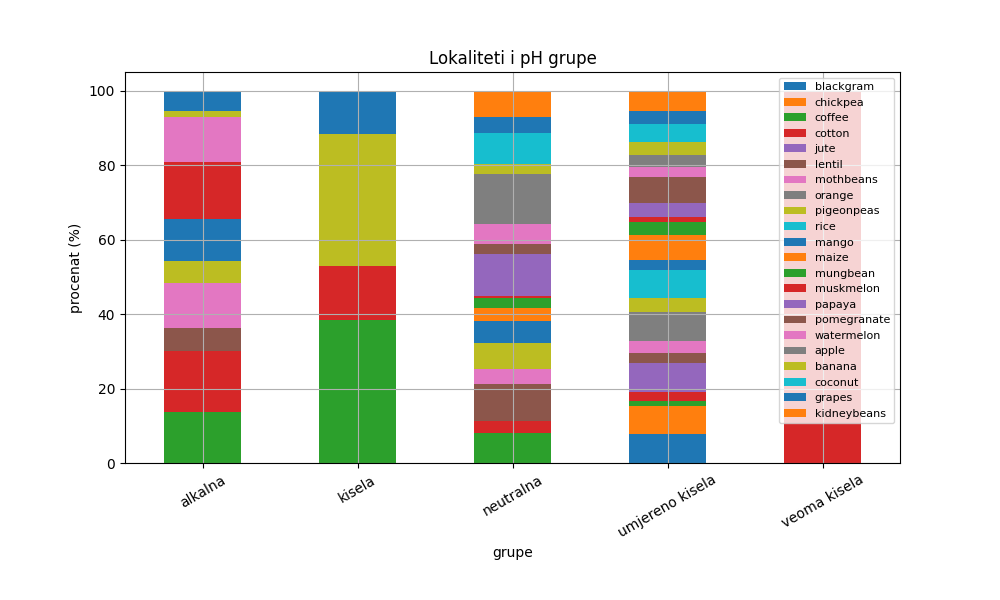
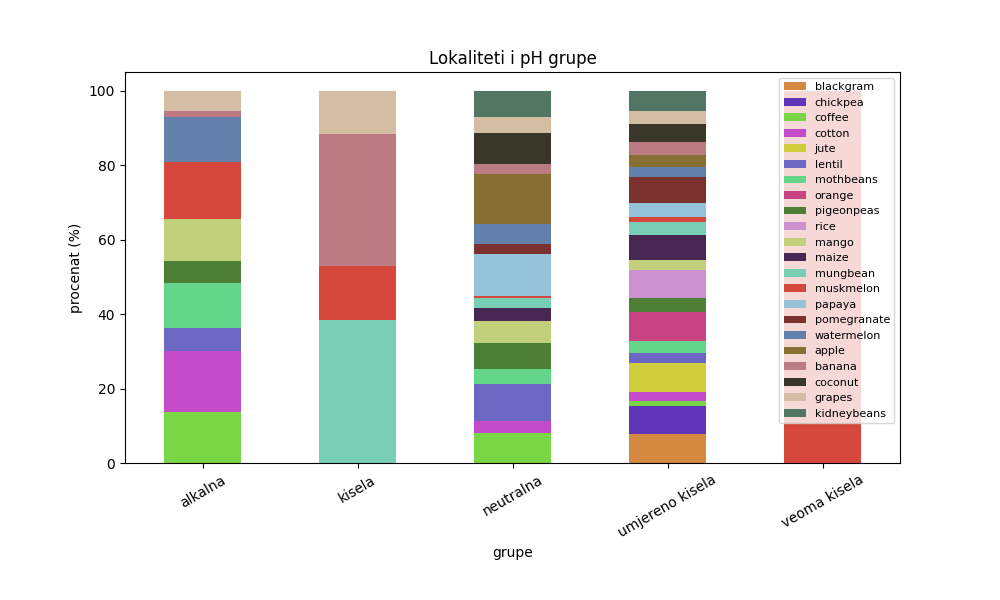
Change colors of stacked bar chart.

diff --git a/main.py b/main.py
@@ -184,12 +184,40 @@ def ph_vrijednost(data_set):
     result = grouped/grouped.groupby(level=0).sum()*100
     # grouped.index je niz torki (grupa,vrsta)
 
-    result.unstack().plot.bar(stacked = True,figsize = (10,6))
+    #colors = plt.cm.tab20c(np.linspace(0,1,22))
+
+    #lista boja generisana pomocu https://medialab.github.io/iwanthue/
+
+    colors = ["#d58840",
+            "#5f36b7",
+            "#79d645",
+            "#c44bca",
+            "#d0cd3c",
+            "#6b67c2",
+            "#63d689",
+            "#c74381",
+            "#4c7e34",
+            "#cc91cf",
+            "#c2d07c",
+            "#482752",
+            "#79ceb6",
+            "#d6483b",
+            "#95c3d9",
+            "#7b312e",
+            "#6380ac",
+            "#887035",
+            "#bc7a83",
+            "#39362a",
+            "#d4bda3",
+            "#527664"]
+
+    #edgecolor='black'
+    result.unstack().plot.bar(stacked = True,figsize = (10,6),color=colors)
 
     plt.title('Lokaliteti i pH grupe')
 
     plt.subplots_adjust(bottom=0.228)
-    plt.grid(True)
+    #plt.grid(True)
 
     plt.xticks(rotation=30)
     plt.xlabel('grupe')
@@ -227,5 +255,3 @@ def vlaznost(data_set):
     plt.show()
 
 ph_vrijednost(df)
-vlaznost(df)
-
